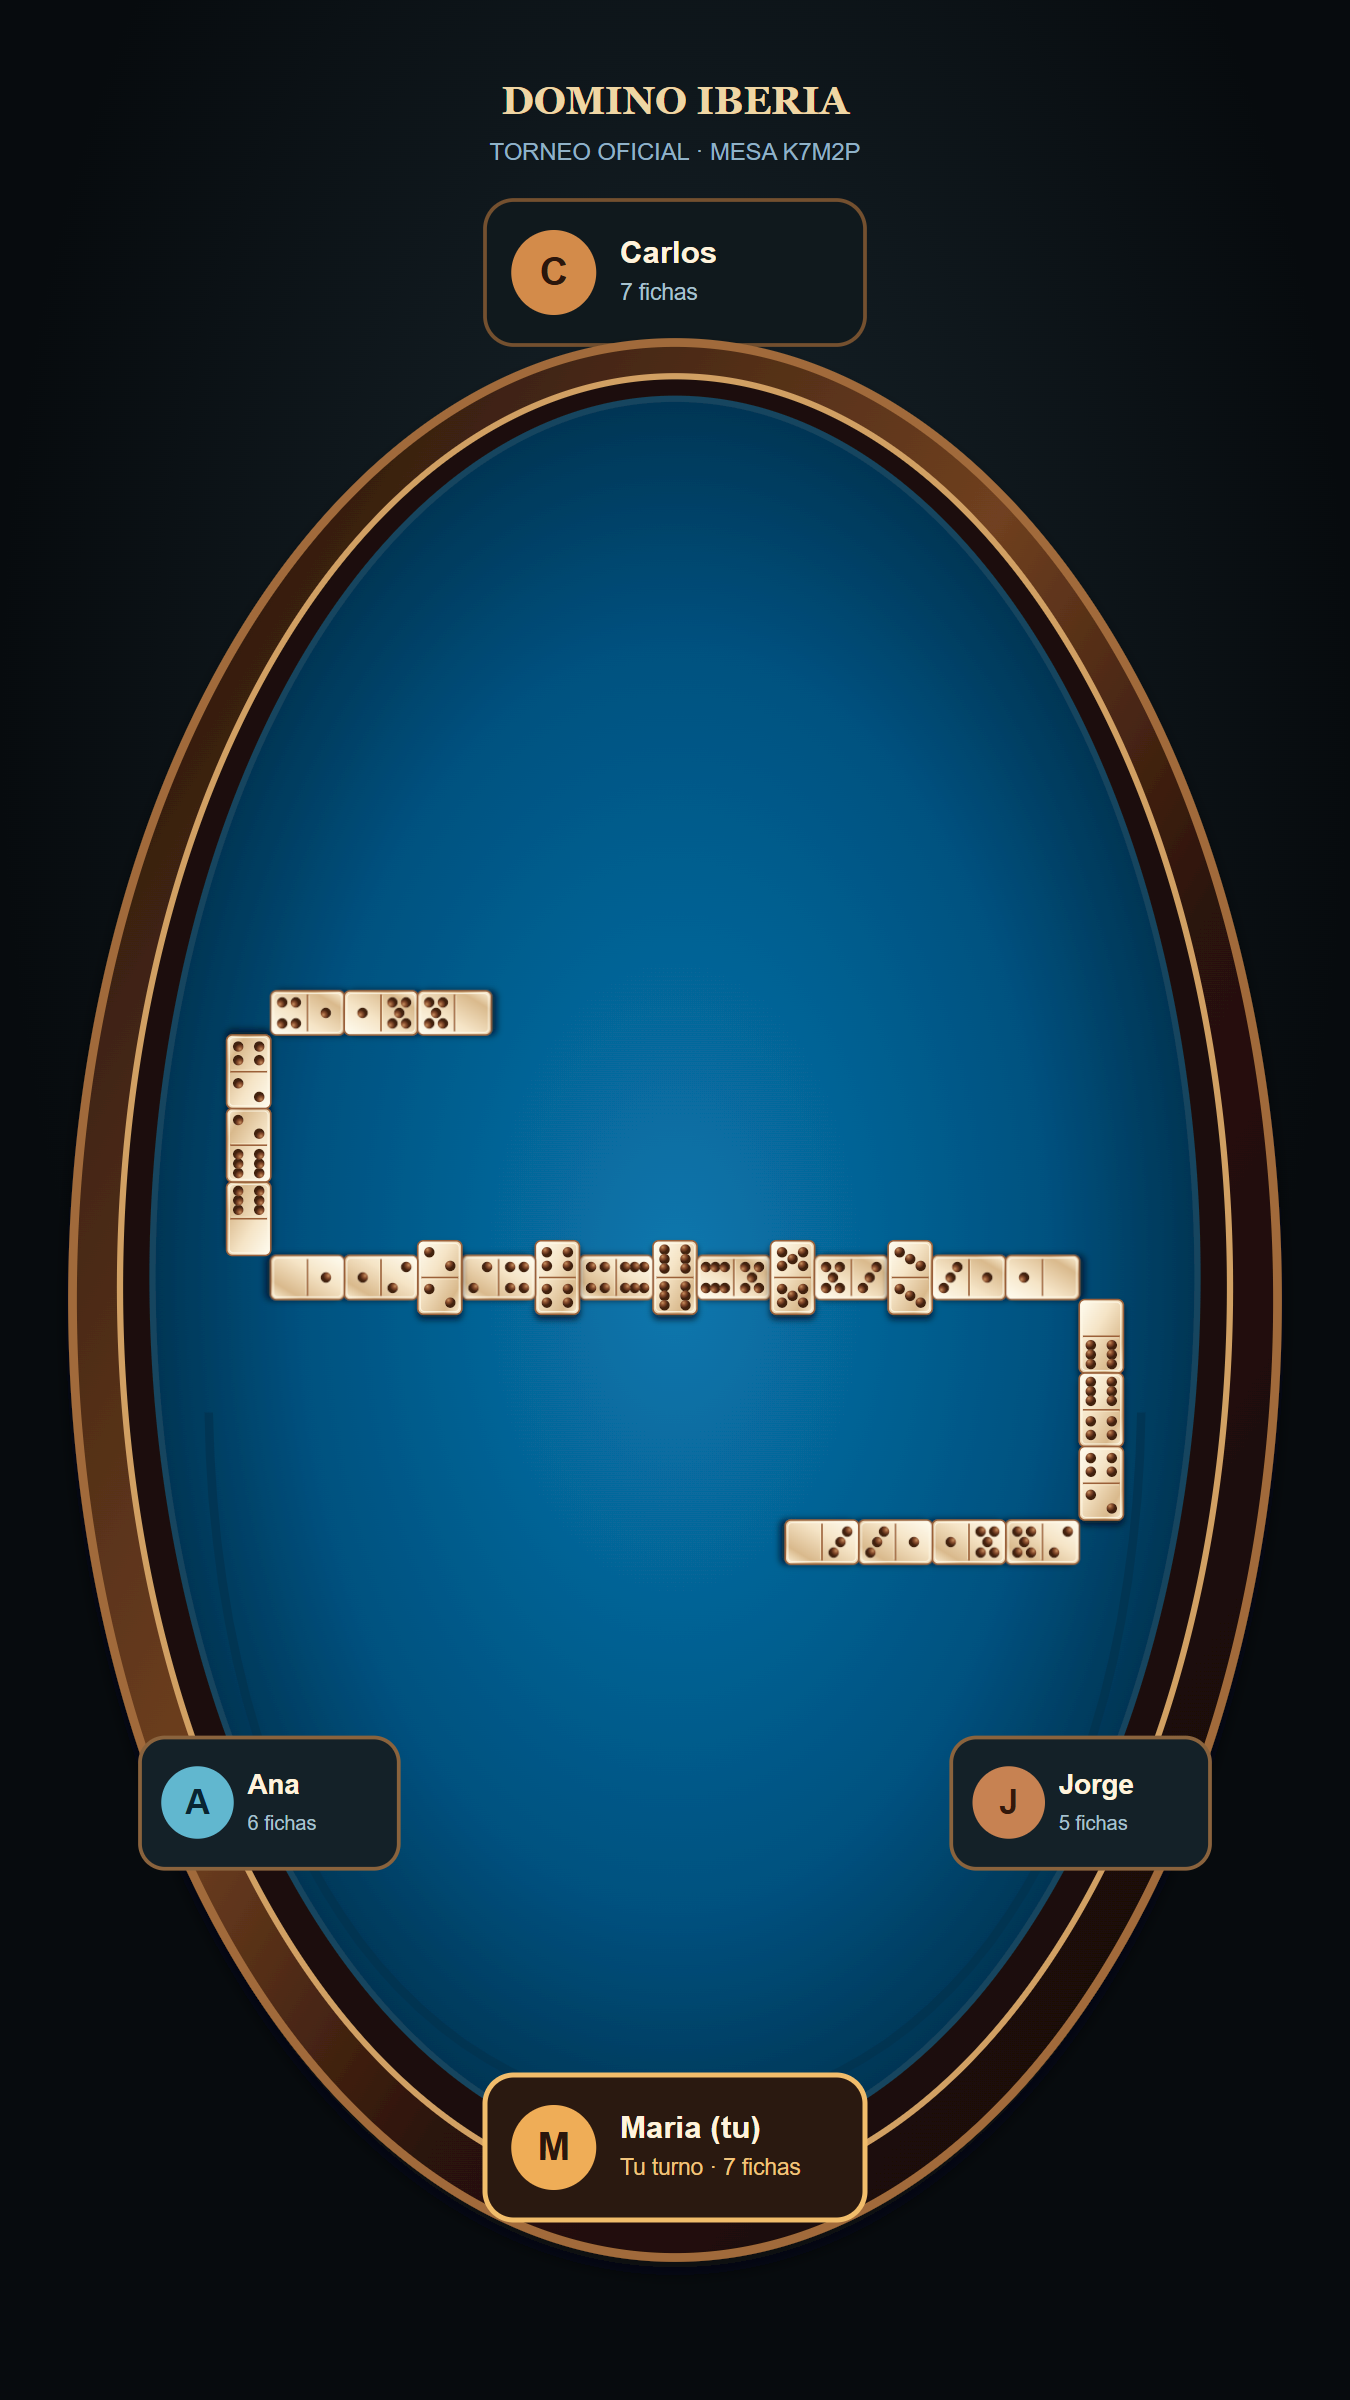
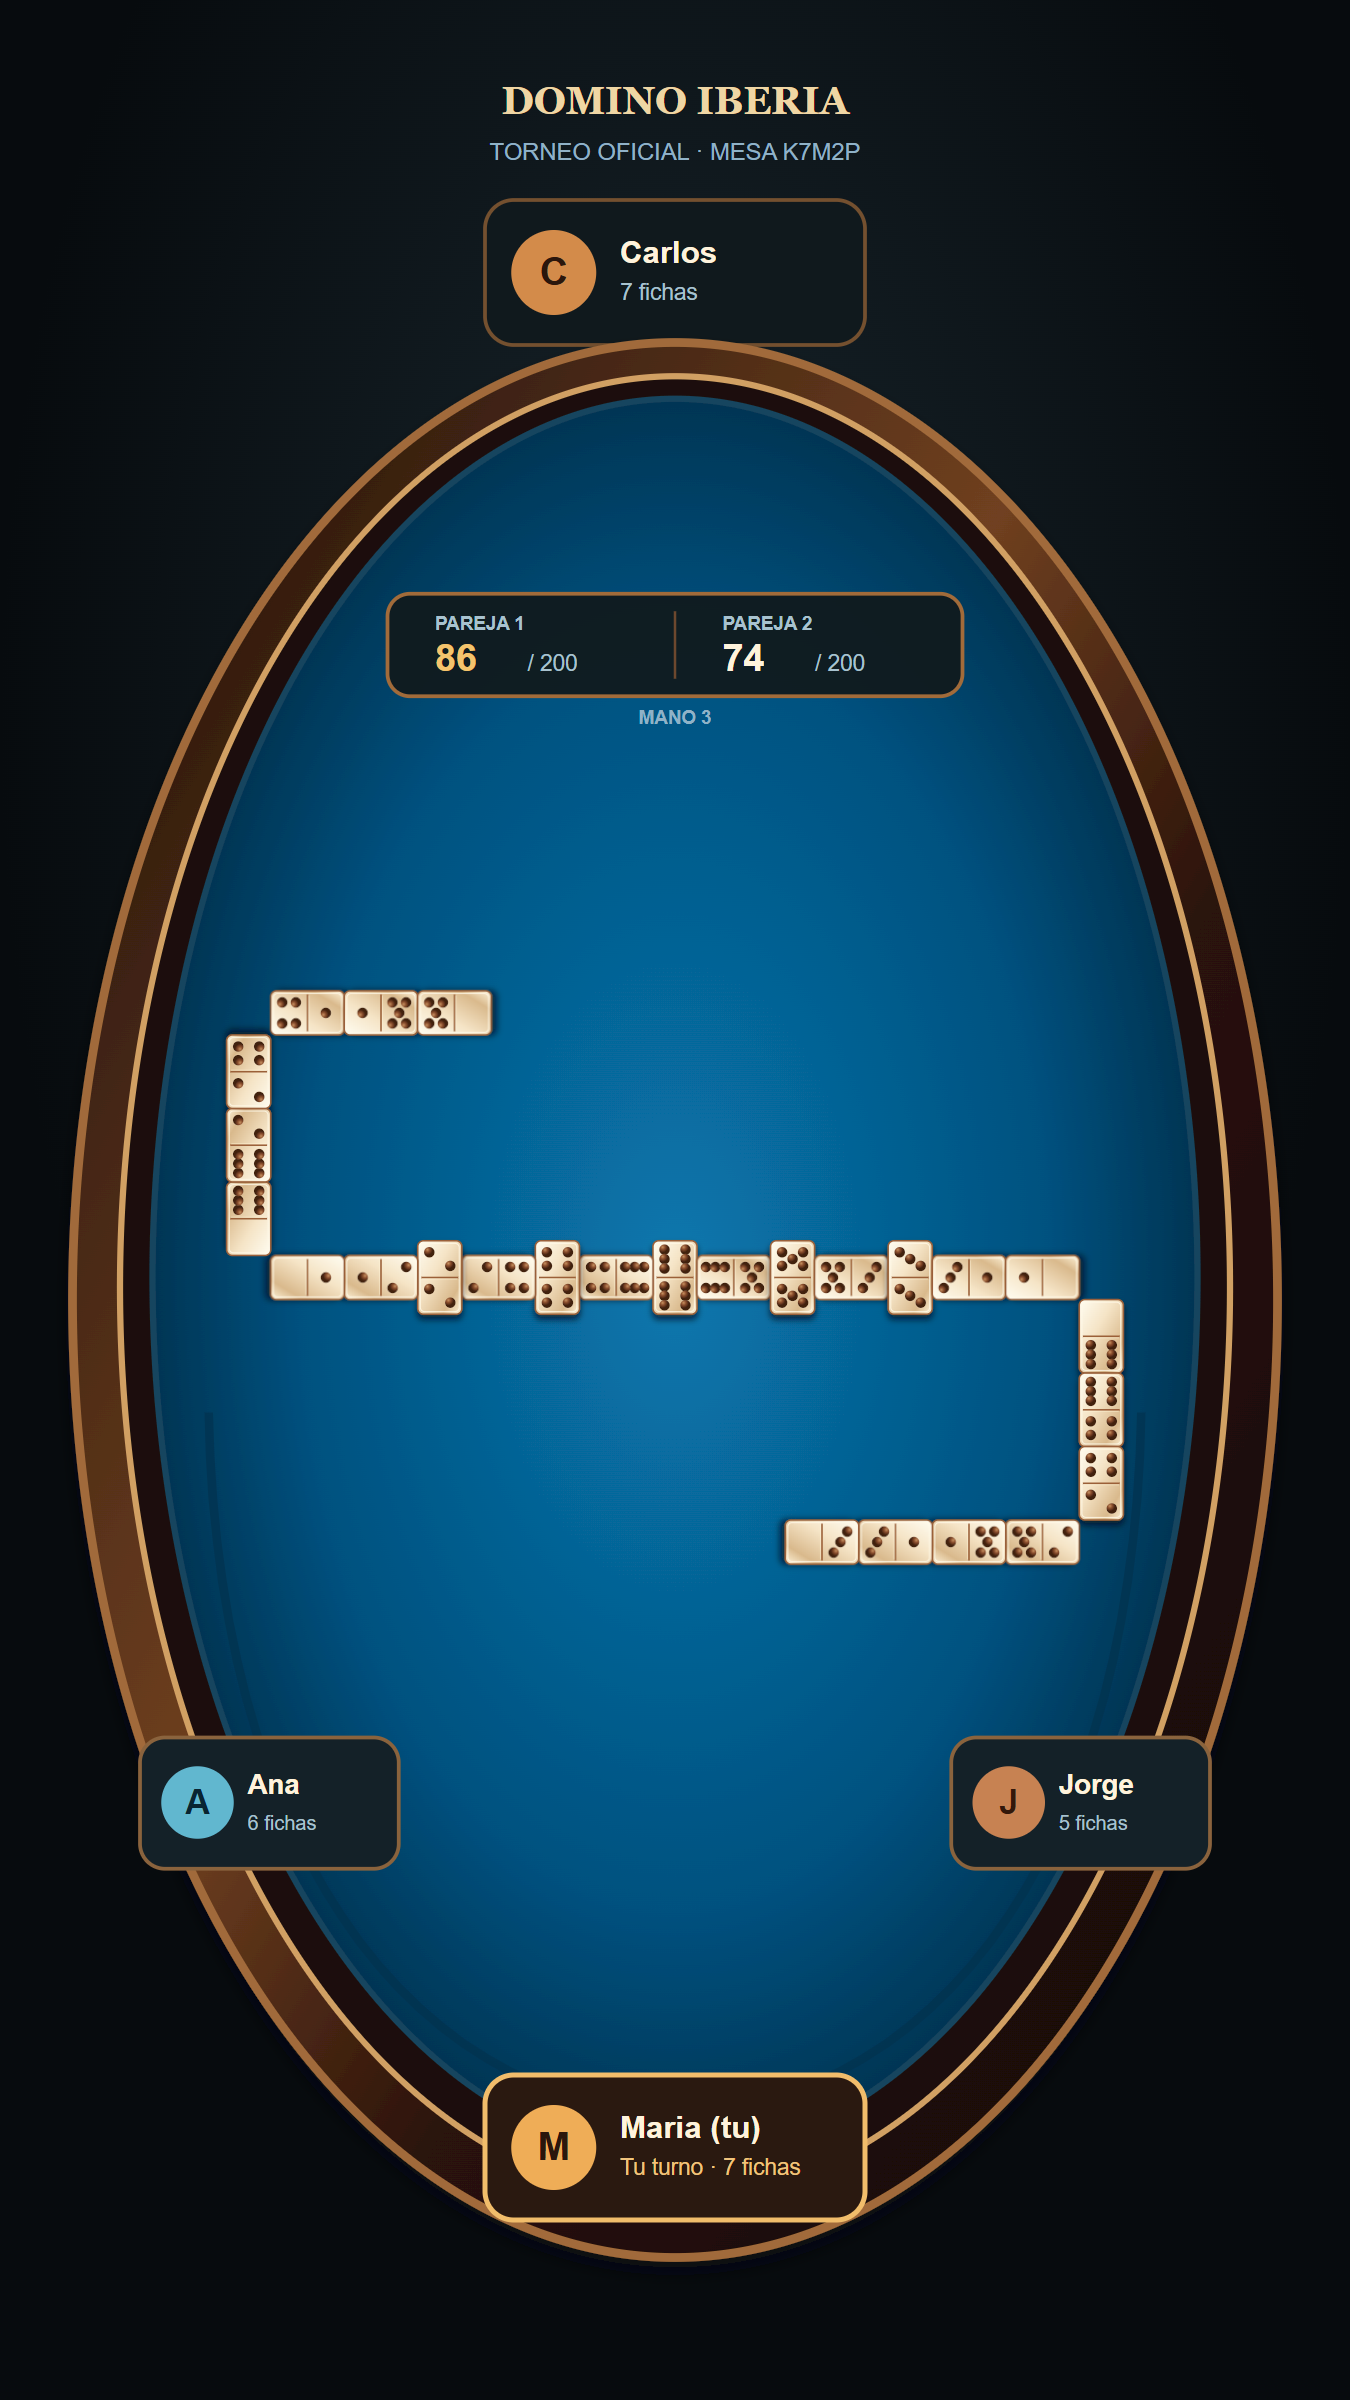
Muestra marcador de domino

Changed region(s): [[0.28, 0.2188, 0.7156, 0.3125]]

diff --git a/frontend/src/components/Domino.jsx b/frontend/src/components/Domino.jsx
@@ -138,7 +138,6 @@ function Domino() {
     {error && <p className="domino-error">{error}</p>}
     <section className="domino-score">{[0, 1].map(pareja => <div key={pareja} className={partida?.mi_posicion % 2 === pareja ? 'mi-pareja' : ''}><span>Pareja {pareja + 1}</span><strong>{partida?.puntuacion?.[pareja] || 0}</strong><small>/ {partida?.limite_puntos || 200}</small></div>)}</section>
     {partida?.estado === 'jugando' && <section className={`domino-ubicacion ${partida.ubicacion_pareja_lista ? 'verificada' : ''}`}><span>{partida.ubicacion_pareja_lista ? 'Ubicación de la pareja verificada' : 'La pareja debe validar una distancia mínima de 1 km'}</span>{!partida.ubicacion_pareja_lista && <button className="domino-secondary" onClick={activarUbicacion} disabled={accionando}>Activar ubicación</button>}</section>}
-    <section className="domino-tablero"><div className="domino-mesa">{partida?.jugadores?.map(jugador => <div className={`domino-asiento ${asientoMesa(jugador.posicion, partida.mi_posicion)} ${jugador.posicion === partida.mi_posicion ? 'soy-yo ' : ''}${jugador.posicion === partida.turno ? 'turno-activo' : ''}`} key={jugador.id}><div className="domino-avatar">{jugador.nombre.slice(0, 1).toUpperCase()}</div><div><strong>{jugador.nombre}{jugador.posicion === partida.mi_posicion ? ' (tú)' : ''}</strong><span>{jugador.fichas} fichas</span></div></div>)}<div className="domino-cadena">{partida?.mesa?.length ? partida.mesa.map((ficha, indice) => <Ficha key={`${fichaKey(ficha)}-${indice}`} ficha={ficha} compacta mesaClase={claseMesa(indice)} />) : <span>La mesa espera la salida.</span>}</div></div>{miTurno && partida?.estado === 'jugando' && <div className="domino-controles"><button className="domino-secondary" disabled={!seleccionada || accionando} onClick={() => enviarJugada('izquierda')}>Jugar izquierda</button><button className="domino-primary" disabled={!seleccionada || accionando} onClick={() => enviarJugada('derecha')}>Jugar derecha</button><button className="domino-pass" disabled={accionando} onClick={pasar}>Pasar</button></div>}</section>
       <section className="domino-tablero"><div className="domino-mesa">{partida?.jugadores?.map(jugador => <div className={`domino-asiento ${asientoMesa(jugador.posicion, partida.mi_posicion)} ${jugador.posicion === partida.mi_posicion ? 'soy-yo ' : ''}${jugador.posicion === partida.turno ? 'turno-activo' : ''}`} key={jugador.id}><div className="domino-avatar">{jugador.nombre.slice(0, 1).toUpperCase()}</div><div><strong>{jugador.nombre}{jugador.posicion === partida.mi_posicion ? ' (tú)' : ''}</strong><span>{jugador.fichas} fichas</span></div></div>)}<div className="domino-cadena">{partida?.salida ? <><Ficha ficha={partida.salida} compacta mesaClase="salida" /><RamaDomino lado="izquierda" fichas={partida.rama_izquierda || []} /><RamaDomino lado="derecha" fichas={partida.rama_derecha || []} /></> : partida?.mesa?.length ? <div className="domino-linea domino-linea-legada">{partida.mesa.map((ficha, indice) => <Ficha key={`${fichaKey(ficha)}-${indice}`} ficha={ficha} compacta />)}</div> : <span>La mesa espera la salida.</span>}</div></div>{miTurno && partida?.estado === 'jugando' && <div className="domino-controles"><button className="domino-secondary" disabled={!seleccionada || accionando} onClick={() => enviarJugada('izquierda')}>Jugar izquierda</button><button className="domino-primary" disabled={!seleccionada || accionando} onClick={() => enviarJugada('derecha')}>Jugar derecha</button><button className="domino-pass" disabled={accionando} onClick={pasar}>Pasar</button></div>}</section>
     <section className="domino-mano"><div><h2>Tus fichas</h2><span>{miTurno ? 'Selecciona una ficha' : 'Esperando turno'}</span></div><div className="domino-fichas">{partida?.mis_fichas?.map((ficha, indice) => <Ficha key={`${fichaKey(ficha)}-${indice}`} ficha={ficha} activa={seleccionada && fichaKey(seleccionada) === fichaKey(ficha)} onClick={() => miTurno && setSeleccionada(ficha)} />)}</div></section>
     <section className="domino-eventos"><h2>Últimas jugadas</h2>{partida?.eventos?.map((evento, indice) => <p key={`${evento}-${indice}`}>{evento}</p>)}</section>
